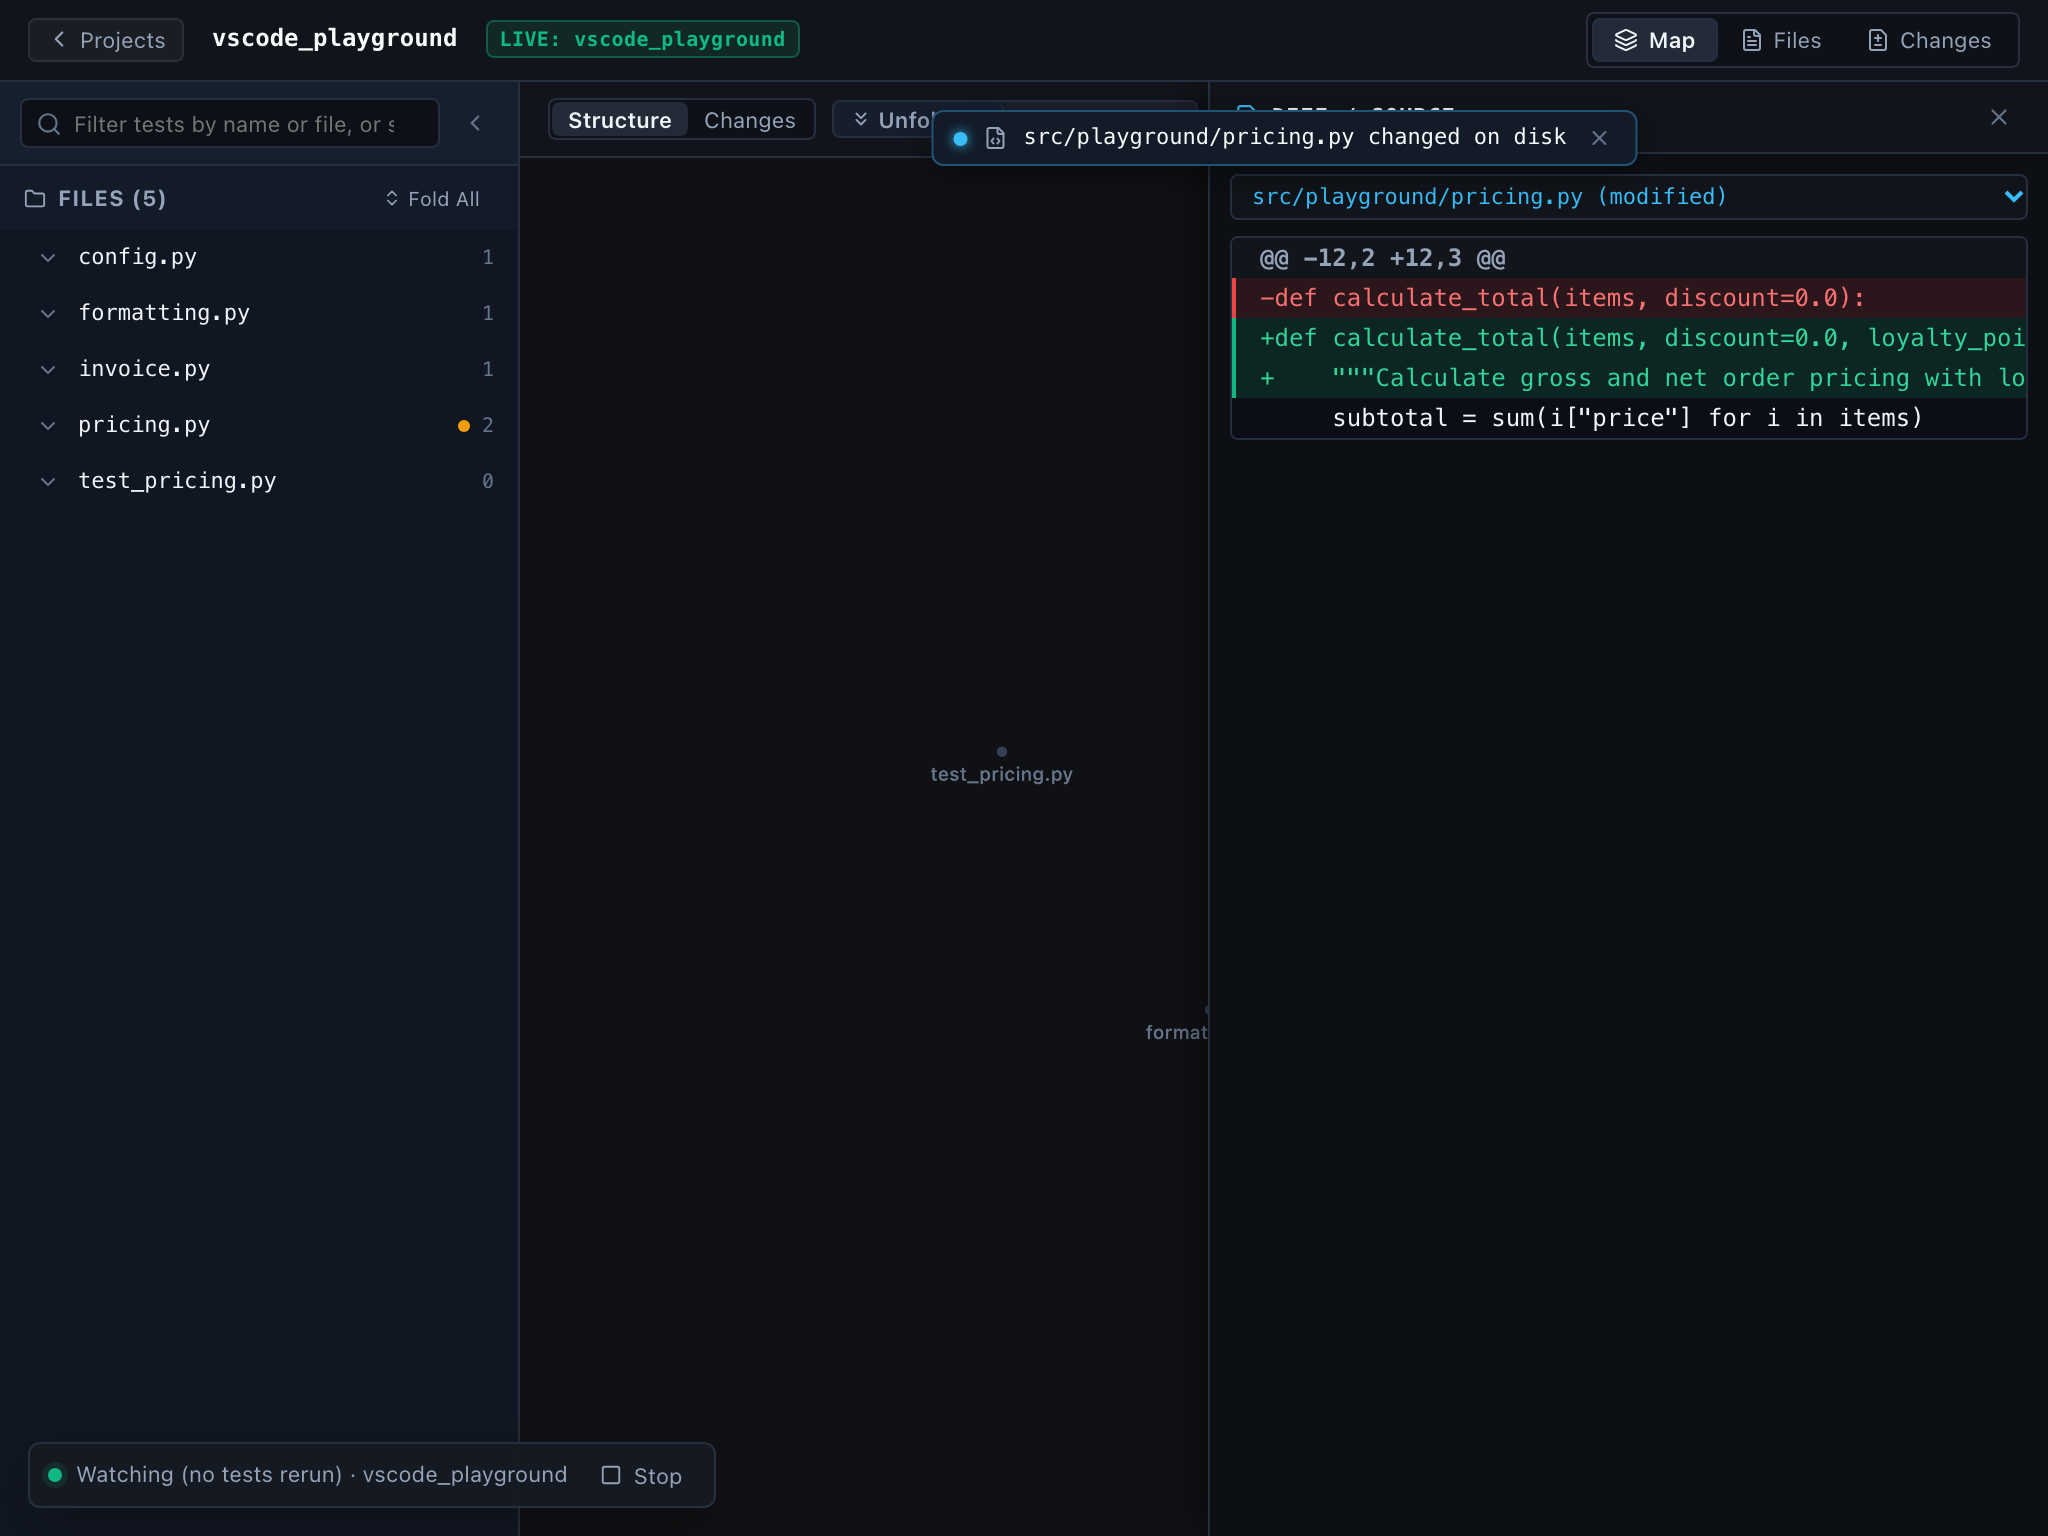
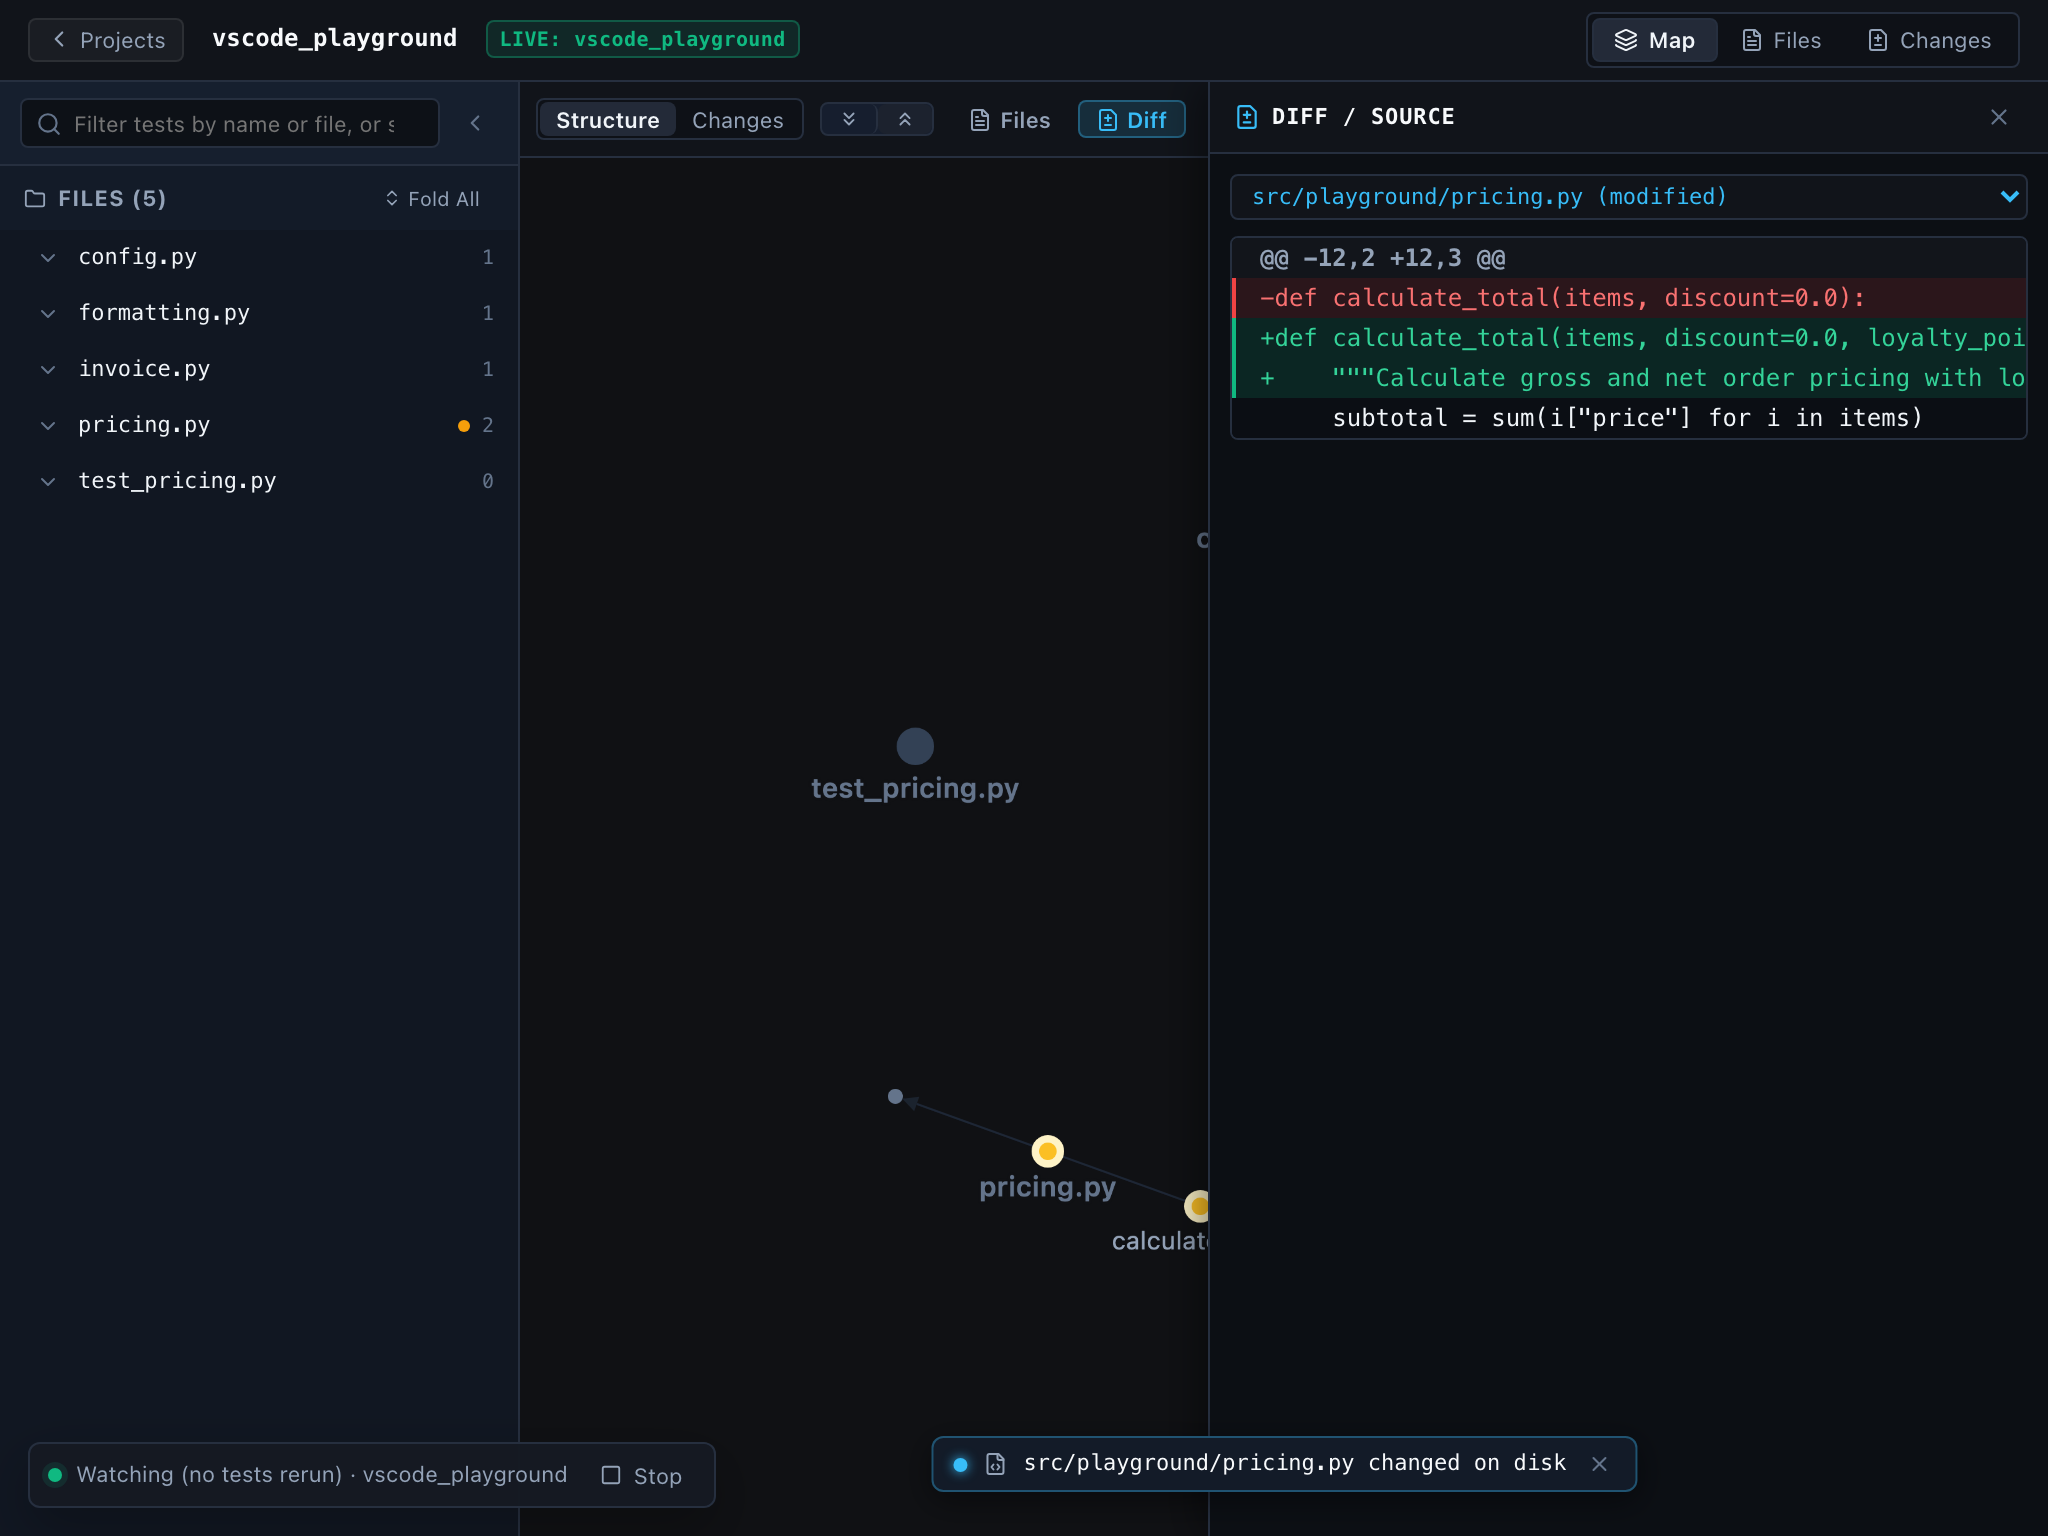
test(ui): add regression tests and updated screenshots for live workspace polish

diff --git a/ui/src/test/liveWorkspacePolish.test.tsx b/ui/src/test/liveWorkspacePolish.test.tsx
@@ -1,0 +1,283 @@
+import { describe, it, expect, vi } from 'vitest';
+import { render, screen, fireEvent } from '@testing-library/react';
+import { LiveToast } from '../components/LiveToast';
+import { GraphView, computeDeterministicPositions } from '../components/GraphView';
+import type { GraphData, FileCluster, CodeNode } from '../types';
+
+describe('Part 1: The Four Fixes (Live Workspace Polish)', () => {
+  describe('Fix 1: Toast Placement (Never covers top toolbar controls)', () => {
+    it('positions LiveToast at the bottom of the canvas instead of top', () => {
+      const onDismiss = vi.fn();
+      render(
+        <LiveToast
+          message="src/playground/pricing.py changed on disk"
+          onDismiss={onDismiss}
+        />
+      );
+
+      const toast = screen.getByRole('status');
+      expect(toast).toBeDefined();
+      expect(toast.style.bottom).toBe('22px');
+      expect(toast.style.top).toBe('');
+      expect(toast.style.left).toBe('50%');
+      expect(toast.style.transform).toBe('translateX(-50%)');
+
+      // Dismiss button is present and functional
+      const dismissBtn = screen.getByRole('button', { name: /dismiss notification/i });
+      expect(dismissBtn).toBeDefined();
+      fireEvent.click(dismissBtn);
+      expect(onDismiss).toHaveBeenCalledTimes(1);
+    });
+  });
+
+  describe('Fix 2: Small Window Overflow & Responsive Toolbar', () => {
+    const mockGraph: GraphData = {
+      files: [
+        { file: 'auth/service.py', name: 'service.py', symbolCount: 2, changeStatus: 'unchanged', lineCount: 50 },
+        { file: 'auth/tokens.py', name: 'tokens.py', symbolCount: 2, changeStatus: 'unchanged', lineCount: 80 },
+      ],
+      nodes: [
+        { id: 'n1', name: 'login', file: 'auth/service.py', parentModule: 'service', kind: 'function', changeStatus: 'unchanged', lineStart: 10, lineEnd: 20 },
+        { id: 'n2', name: 'logout', file: 'auth/service.py', parentModule: 'service', kind: 'function', changeStatus: 'unchanged', lineStart: 25, lineEnd: 35 },
+        { id: 'n3', name: 'validate_token', file: 'auth/tokens.py', parentModule: 'tokens', kind: 'function', changeStatus: 'unchanged', lineStart: 5, lineEnd: 15 },
+        { id: 'n4', name: 'create_token', file: 'auth/tokens.py', parentModule: 'tokens', kind: 'function', changeStatus: 'unchanged', lineStart: 20, lineEnd: 30 },
+      ],
+      edges: [
+        { id: 'e1', source: 'n1', target: 'n3', category: 'static_call', provenance: 'static_ast', confidence: 'resolved' },
+      ],
+      unresolvedReferences: [],
+      parseErrors: [],
+    };
+
+    it('renders toolbar with responsive collapse classes and ensures zoom controls have flexShrink: 0', () => {
+      const onToggleMapDrawer = vi.fn();
+      const { container } = render(
+        <div style={{ width: 784, height: 600 }}>
+          <GraphView
+            graphData={mockGraph}
+            tests={[]}
+            selectedTestId={null}
+            isLive={true}
+            onToggleMapDrawer={onToggleMapDrawer}
+          />
+        </div>
+      );
+
+      const toolbar = container.querySelector('.graph-toolbar');
+      expect(toolbar).toBeDefined();
+
+      // Fold buttons have responsive label class
+      const unfoldLabels = container.querySelectorAll('.graph-btn-label-full');
+      expect(unfoldLabels.length).toBeGreaterThanOrEqual(2);
+
+      // Center title has responsive title class
+      const titleLabel = container.querySelector('.graph-title-label');
+      expect(titleLabel).toBeDefined();
+      expect(titleLabel?.textContent).toContain('Whole Project Map');
+
+      // Static context label has responsive context class
+      const contextLabel = container.querySelector('.graph-context-label');
+      expect(contextLabel).toBeDefined();
+
+      // Search container has responsive search class
+      const searchContainer = container.querySelector('.graph-search-container');
+      expect(searchContainer).toBeDefined();
+
+      // Zoom level indicator (MID) and zoom buttons are rendered and have flexShrink: 0
+      const zoomIndicator = screen.getByText(/mid/i);
+      expect(zoomIndicator).toBeDefined();
+      expect(zoomIndicator.style.flexShrink).toBe('0');
+
+      const zoomInBtn = screen.getByRole('button', { name: /zoom in/i });
+      const zoomOutBtn = screen.getByRole('button', { name: /zoom out/i });
+      const fitBtn = screen.getByRole('button', { name: /fit to view/i });
+      expect(zoomInBtn).toBeDefined();
+      expect(zoomOutBtn).toBeDefined();
+      expect(fitBtn).toBeDefined();
+
+      // Live drawer buttons (Files, Diff / Source) are present
+      expect(screen.getByRole('button', { name: /toggle files drawer/i })).toBeDefined();
+      expect(screen.getByRole('button', { name: /toggle diff drawer/i })).toBeDefined();
+    });
+  });
+
+  describe('Fix 3: Fresh Map Default Links or Hint', () => {
+    it('shows small useful default cross-file links with default-live-edge class and displays hint on open', () => {
+      const mockGraphWithLinks: GraphData = {
+        files: [
+          { file: 'a.py', name: 'a.py', symbolCount: 1, changeStatus: 'unchanged', lineCount: 20 },
+          { file: 'b.py', name: 'b.py', symbolCount: 1, changeStatus: 'unchanged', lineCount: 20 },
+        ],
+        nodes: [
+          { id: 'sym_a', name: 'func_a', file: 'a.py', parentModule: 'a', kind: 'function', changeStatus: 'unchanged', lineStart: 1, lineEnd: 10 },
+          { id: 'sym_b', name: 'func_b', file: 'b.py', parentModule: 'b', kind: 'function', changeStatus: 'unchanged', lineStart: 1, lineEnd: 10 },
+        ],
+        edges: [
+          { id: 'edge_ab', source: 'sym_a', target: 'sym_b', category: 'static_call', provenance: 'static_ast', confidence: 'resolved' },
+        ],
+        unresolvedReferences: [],
+        parseErrors: [],
+      };
+
+      let cy: any = null;
+      render(
+        <div style={{ width: 800, height: 600 }}>
+          <GraphView
+            graphData={mockGraphWithLinks}
+            tests={[]}
+            selectedTestId={null}
+            isLive={true}
+            selectedNodeId={null}
+            selectedFile={null}
+            highlightedNodeIds={[]}
+            onCyReady={(instance) => {
+              cy = instance;
+            }}
+          />
+        </div>
+      );
+
+      // Default capped preview edge is rendered with muted styling
+      const nonContainmentEdges = cy.edges('[category != "containment"]');
+      expect(nonContainmentEdges.length).toBe(1);
+      expect(nonContainmentEdges.first().hasClass('default-live-edge')).toBe(true);
+
+      // Calm interaction hint is visible
+      expect(screen.getByTestId('live-map-hint')).toBeDefined();
+      expect(screen.getByText('Click a file to see what it connects to')).toBeDefined();
+    });
+
+    it('renders 0 fake links and shows hint when data has 0 cross-file edges', () => {
+      const mockGraphNoEdges: GraphData = {
+        files: [
+          { file: 'standalone.py', name: 'standalone.py', symbolCount: 1, changeStatus: 'unchanged', lineCount: 20 },
+        ],
+        nodes: [
+          { id: 'sym_standalone', name: 'lone_func', file: 'standalone.py', parentModule: 'standalone', kind: 'function', changeStatus: 'unchanged', lineStart: 1, lineEnd: 10 },
+        ],
+        edges: [],
+        unresolvedReferences: [],
+        parseErrors: [],
+      };
+
+      let cy: any = null;
+      render(
+        <div style={{ width: 800, height: 600 }}>
+          <GraphView
+            graphData={mockGraphNoEdges}
+            tests={[]}
+            selectedTestId={null}
+            isLive={true}
+            selectedNodeId={null}
+            selectedFile={null}
+            highlightedNodeIds={[]}
+            onCyReady={(instance) => {
+              cy = instance;
+            }}
+          />
+        </div>
+      );
+
+      const nonContainmentEdges = cy.edges('[category != "containment"]');
+      expect(nonContainmentEdges.length).toBe(0);
+
+      // Hint is shown without any fake data
+      expect(screen.getByTestId('live-map-hint')).toBeDefined();
+      expect(screen.getByText('Click a file to see what it connects to')).toBeDefined();
+    });
+
+    it('hides the hint when hasActiveToast is true to prevent visual collision', () => {
+      const mockGraph: GraphData = {
+        files: [{ file: 'app.py', name: 'app.py', symbolCount: 1, changeStatus: 'unchanged', lineCount: 20 }],
+        nodes: [{ id: 'app_main', name: 'main', file: 'app.py', parentModule: 'app', kind: 'function', changeStatus: 'unchanged', lineStart: 1, lineEnd: 10 }],
+        edges: [],
+        unresolvedReferences: [],
+        parseErrors: [],
+      };
+
+      render(
+        <div style={{ width: 800, height: 600 }}>
+          <GraphView
+            graphData={mockGraph}
+            tests={[]}
+            selectedTestId={null}
+            isLive={true}
+            hasActiveToast={true}
+          />
+        </div>
+      );
+
+      expect(screen.queryByTestId('live-map-hint')).toBeNull();
+    });
+  });
+
+  describe('Fix 4: Sparse Map on Small Projects', () => {
+    it('computes balanced circular layout positions for small file sets (<= 6 files)', () => {
+      const files: FileCluster[] = [
+        { file: 'src/config.py', name: 'config.py', symbolCount: 1, changeStatus: 'unchanged', lineCount: 30 },
+        { file: 'src/pricing.py', name: 'pricing.py', symbolCount: 2, changeStatus: 'unchanged', lineCount: 50 },
+        { file: 'src/invoice.py', name: 'invoice.py', symbolCount: 1, changeStatus: 'unchanged', lineCount: 40 },
+      ];
+
+      const nodes: CodeNode[] = [
+        { id: 's1', name: 'load_cfg', file: 'src/config.py', parentModule: 'config', kind: 'function', changeStatus: 'unchanged', lineStart: 5, lineEnd: 15 },
+        { id: 's2', name: 'calc_price', file: 'src/pricing.py', parentModule: 'pricing', kind: 'function', changeStatus: 'unchanged', lineStart: 10, lineEnd: 30 },
+        { id: 's3', name: 'apply_tax', file: 'src/pricing.py', parentModule: 'pricing', kind: 'function', changeStatus: 'unchanged', lineStart: 35, lineEnd: 45 },
+        { id: 's4', name: 'make_inv', file: 'src/invoice.py', parentModule: 'invoice', kind: 'function', changeStatus: 'unchanged', lineStart: 5, lineEnd: 25 },
+      ];
+
+      const positions = computeDeterministicPositions(files, nodes);
+
+      // Positions exist for all files and symbols
+      expect(positions['file:src/config.py']).toBeDefined();
+      expect(positions['file:src/pricing.py']).toBeDefined();
+      expect(positions['file:src/invoice.py']).toBeDefined();
+      expect(positions['s1']).toBeDefined();
+      expect(positions['s2']).toBeDefined();
+
+      // Files are spaced across the canvas around (480, 360) with comfortable radius > 100px
+      const pConfig = positions['file:src/config.py'];
+      const pPricing = positions['file:src/pricing.py'];
+      const dist = Math.hypot(pConfig.x - pPricing.x, pConfig.y - pPricing.y);
+      expect(dist).toBeGreaterThan(150);
+    });
+
+    it('assigns sparse-node class to nodes in small projects for proportional sizing', () => {
+      const smallGraph: GraphData = {
+        files: [
+          { file: 'alpha.py', name: 'alpha.py', symbolCount: 1, changeStatus: 'unchanged', lineCount: 20 },
+          { file: 'beta.py', name: 'beta.py', symbolCount: 1, changeStatus: 'unchanged', lineCount: 20 },
+        ],
+        nodes: [
+          { id: 'n_a', name: 'alpha_fn', file: 'alpha.py', parentModule: 'alpha', kind: 'function', changeStatus: 'unchanged', lineStart: 1, lineEnd: 10 },
+          { id: 'n_b', name: 'beta_fn', file: 'beta.py', parentModule: 'beta', kind: 'function', changeStatus: 'unchanged', lineStart: 1, lineEnd: 10 },
+        ],
+        edges: [],
+        unresolvedReferences: [],
+        parseErrors: [],
+      };
+
+      let cy: any = null;
+      render(
+        <div style={{ width: 800, height: 600 }}>
+          <GraphView
+            graphData={smallGraph}
+            tests={[]}
+            selectedTestId={null}
+            onCyReady={(instance) => {
+              cy = instance;
+            }}
+          />
+        </div>
+      );
+
+      const fileNodes = cy.nodes('[?isFileCluster]');
+      expect(fileNodes.length).toBe(2);
+      expect(fileNodes.first().hasClass('sparse-node')).toBe(true);
+
+      const childNodes = cy.nodes('[!isFileCluster]');
+      expect(childNodes.length).toBe(2);
+      expect(childNodes.first().hasClass('sparse-node')).toBe(true);
+    });
+  });
+});

diff --git a/ui/src/test/liveWorkspaceCalm.test.tsx b/ui/src/test/liveWorkspaceCalm.test.tsx
@@ -235,9 +235,13 @@ describe('Live-Watch Calm Workspace (Parts A, B, C, D)', () => {
       );
 
       // When isLive is true and no node is selected or changed:
-      // All inter-node links should be excluded (only containment edges exist)
+      // Fix 3: Show small useful default (capped at 4 strongest cross-file links, thin and muted), never a hairball
       const nonContainmentEdges = cy.edges('[category != "containment"]');
-      expect(nonContainmentEdges.length).toBe(0);
+      expect(nonContainmentEdges.length).toBe(1);
+      expect(nonContainmentEdges.first().hasClass('default-live-edge')).toBe(true);
+
+      // And displays the calm interaction hint
+      expect(screen.getByText('Click a file to see what it connects to')).toBeDefined();
 
       // "Agent Auto-Repair (Demo only)" must not appear in live watch
       expect(screen.queryByText('Agent Auto-Repair (Demo only)')).toBeNull();
